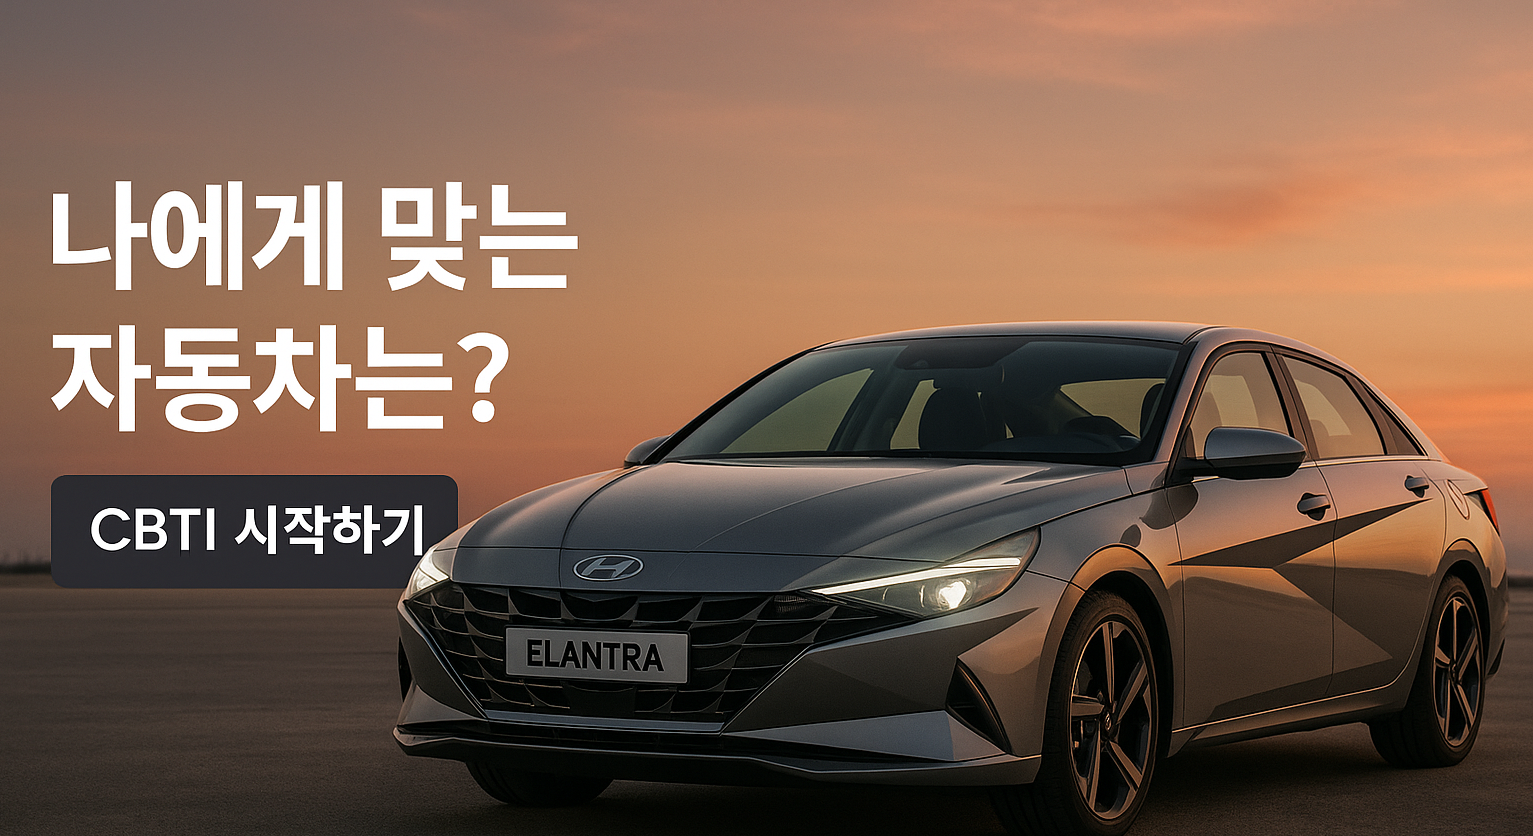
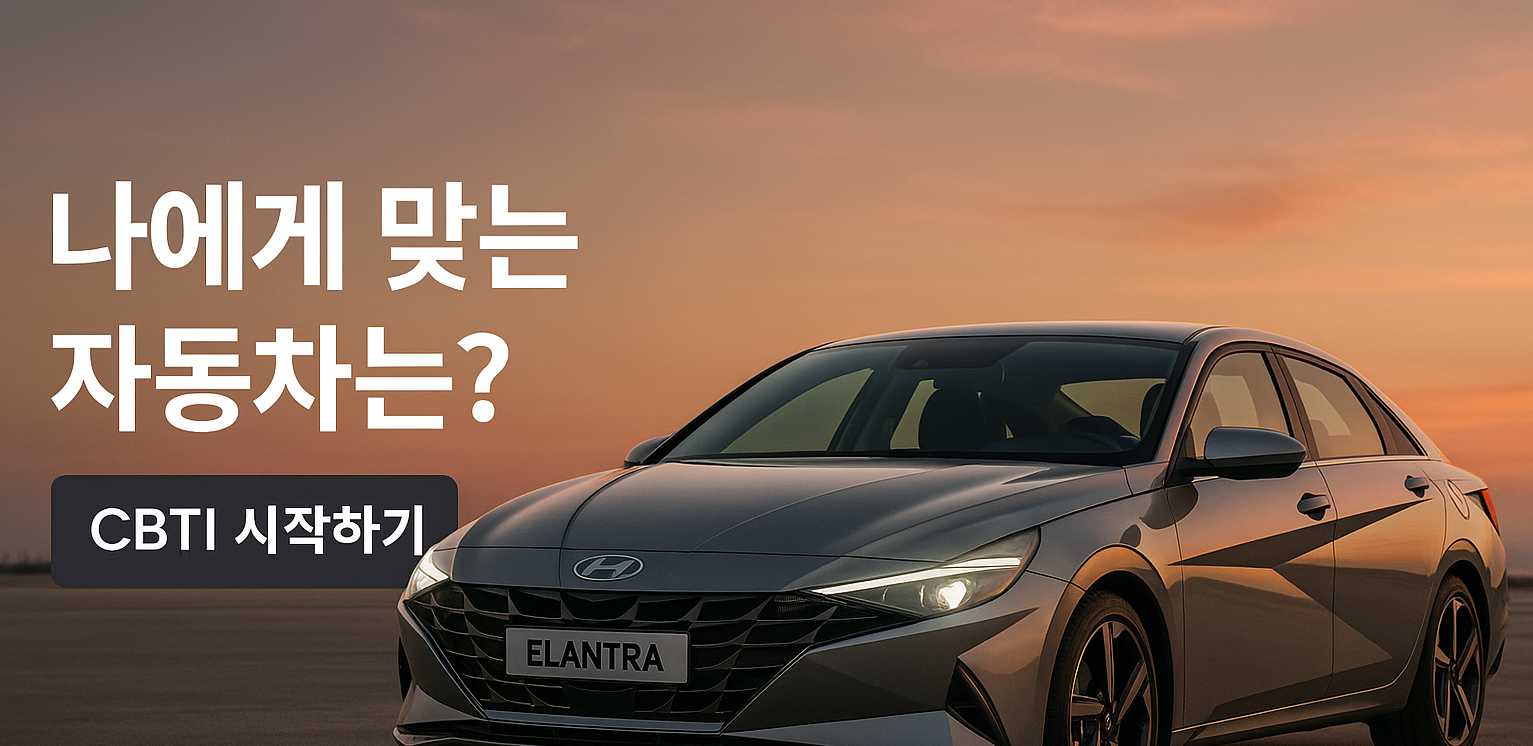
feat(responsive): update main page and header for adaptive spacing between header and main content

diff --git a/src/pages/MainPage.js b/src/pages/MainPage.js
@@ -122,15 +122,15 @@ const MainPage = () => {
                         <path strokeLinecap="round" strokeLinejoin="round" d="M15.75 19.5 8.25 12l7.5-7.5"/>
                     </svg>
                 </div>
-                <div className="w-full aspect-[16/9] max-h-[48rem] overflow-hidden">
+                <div className="w-full aspect-[16/9] max-h-[43rem] overflow-hidden">
                     <img
                         src={slidSrc[index].src}
                         onClick={() => navigate(slidSrc[index].href)}
-                        className="absolute top-0 left-0 w-full h-full object-cover cursor-pointer transition-transform duration-300 pt-[14rem] lg:pt-0"
+                        className="absolute top-0 left-0 w-full h-[92.5%] scale-100 object-cover cursor-pointer transition-transform duration-300 pt-[14rem] lg:pt-0"
                         alt={`Slide ${index + 1}`}
                     />
                 </div>
-                <div className="absolute bottom-4 left-1/2 transform -translate-x-1/2 flex space-x-2">
+                <div className="absolute bottom-4 left-1/2 transform -translate-x-1/2 flex space-x-2 pb-[3rem]">
                     {slidSrc.map((_, i) => (
                         <button key={i} onClick={() => handleButtonClick(i)}
                                 className={`w-3 h-3 sm:w-4 sm:h-4 rounded-full ${i === index ? 'bg-gray-500' : 'bg-gray-800'} hover:bg-gray-400`}/>
@@ -147,7 +147,7 @@ const MainPage = () => {
 
             {/* 브랜드 카드 슬라이드 (카드 섹션) */}
             <div
-                className="w-full flex items-center justify-between px-2 sm:px-6 md:px-12 pt-4 pb-8 relative overflow-hidden"
+                className="w-full flex items-center justify-between px-2 sm:px-6 md:px-12 pt-4 pb-8 relative overflow-hidden translate-y-[-1.2rem]"
             >
                 {/* 왼쪽 화살표 */}
                 <button
